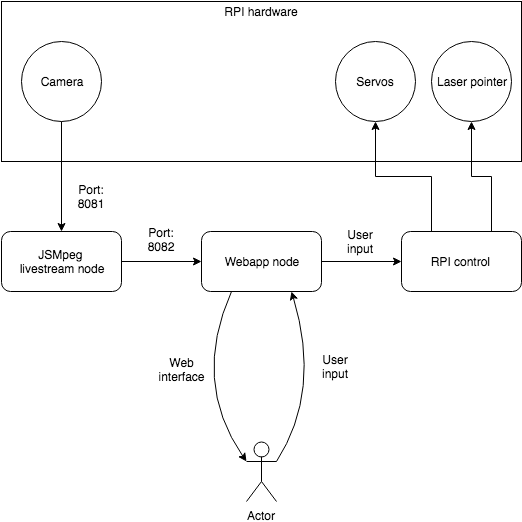
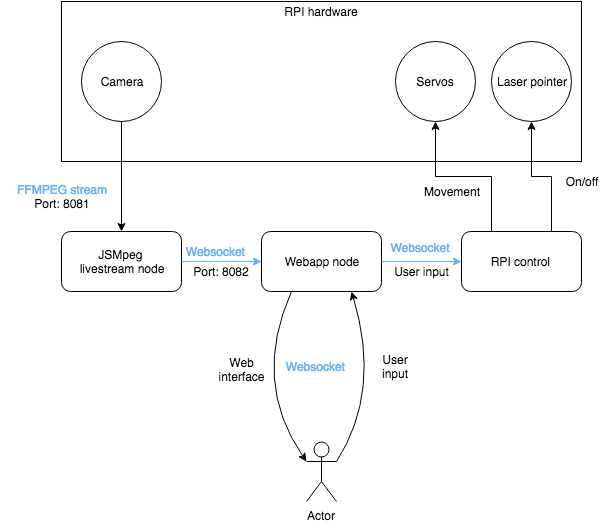
updated readme and added notes to files

diff --git a/webapp/static/logic.js b/webapp/static/logic.js
@@ -1,19 +1,14 @@
+// Author: Tjalling Haije
+// Date: 12-01-2019
+//
+// This JS file holds all the JS logic for the webapp. 
+// It calculates the servo commands based on clicks/tabs, sends this 
+// info back to the main server over the websocket, and resizes the window when the user 
+// rotates their screen.
+ 
+
+
 var socket = io();
-
-
-
-// go Fullscreen button
-// var goFS = document.getElementById("goFS");
-// goFS.addEventListener("click", function() {
-//     console.log("Button click")
-//     document.body.requestFullscreen();
-//     document.body.webkitRequestFullscreen(Element.ALLOW_KEYBOARD_INPUT);
-//     document.body.mozRequestFullScreen();
-//     document.body.msRequestFullscreen();
-//     document.body.requestFullscreen(); // standard
-// }, false);
-
-
 
 
 // resize after a slight delay, because of having to reset the width etc. of
@@ -140,31 +135,3 @@ document.addEventListener("click", function(event){
     socket.emit('click', {"hor": hor, "vert": vert, "ls": 0});
 });
 
-
-// socket.emit('new player');
-// setInterval(function() {
-//   socket.emit('movement', movement);
-// }, 1000 / 60);
-
-
-
-
-// socket.on('message', function(data) {
-//   console.log(data);
-// });
-
-
-// var canvas = document.getElementById('canvas');
-// canvas.width = 800;
-// canvas.height = 600;
-// var context = canvas.getContext('2d');
-// socket.on('state', function(players) {
-//   context.clearRect(0, 0, 800, 600);
-//   context.fillStyle = 'green';
-//   for (var id in players) {
-//     var player = players[id];
-//     context.beginPath();
-//     context.arc(player.x, player.y, 10, 0, 2 * Math.PI);
-//     context.fill();
-//   }
-// });

diff --git a/webapp/server.js b/webapp/server.js
@@ -1,8 +1,10 @@
-// Dependencies
-var express = require('express');
-var http = require('http');
-var path = require('path');
-var socketIO = require('socket.io');
+// Author: Tjalling Haije
+// Date: 12-01-2019
+//
+// This Node.js node starts a webserver and serves the index.html file. 
+// The user is directly connected through a websocket with the server, 
+// which awaits laser and servo commands.
+
 
 var app = express();
 var server = http.Server(app);
@@ -35,12 +37,3 @@ io.on('connection', function(socket) {
     });
 });
 
-
-// setInterval(function() {
-//     io.sockets.emit('state', players);
-// }, 1000 / 60);
-
-
-// setInterval(function() {
-//   io.sockets.emit('message', 'hi!');
-// }, 1000);

diff --git a/rpi-control/servos.py b/rpi-control/servos.py
@@ -1,10 +1,20 @@
+##########################################################
+# Author: Tjalling Haije
+# Date: 12-01-2019
+#
+# This file contains the code to setup and control the servos on the Raspberry PI, with 
+# the PIGPIO library
+##########################################################
+
 import pigpio
 import time
 
 pi = pigpio.pi()
 
-# Servo class with all information and methods for the wiringpi objects
+
 class Servo:
+    """ This class represents a servo, its current position, and functions to move it 
+          to another position. """
 
     def __init__(self, pin, minPos, maxPos, centerPosition):
         """ Initialize the motor with its pins, min, max and
@@ -24,16 +34,10 @@ class Servo:
         new_pos = clamp(position, self.minPos, self.maxPos)
         
         print("New position:", new_pos)
-        # calc change
-        # delta = abs(new_pos - self.position)
-        
+
         self.position = new_pos
         pi.set_servo_pulsewidth(self.pin, self.position)
         
-        # give the servo some time to move to the target pos
-        #wait_time = (self.secs_per_100 / 100) * delta
-        #time.sleep(wait_time)
-        #pi.set_servo_pulsewidth(self.pin, 0)
 
     def center(self):
         self.setPosition(self.centerPosition)

diff --git a/rpi-control/control.py b/rpi-control/control.py
@@ -1,9 +1,18 @@
+##########################################################
+# Author: Tjalling Haije
+# Date: 12-01-2019
+#
+# This file opens a websocket which waits for servo and laser commands
+#
+##########################################################
+
 import servos as servoControl
 from laser import Laser
 from time import sleep
 import socket
 
 
+# how much servo ticks to move per percentage received
 multiplier = 2.5
 
 if __name__ == "__main__":

diff --git a/rpi-control/sendCommand.py b/rpi-control/sendCommand.py
@@ -1,3 +1,12 @@
+##########################################################
+# Author: Tjalling Haije
+# Date: 12-01-2019
+#
+# This file receives the servo and laser commands from Node.js, and sends it to the Python 
+# websocket
+#
+##########################################################
+
 import socket
 import time
 import sys

diff --git a/rpi-control/laser.py b/rpi-control/laser.py
@@ -1,3 +1,11 @@
+##########################################################
+# Author: Tjalling Haije
+# Date: 12-01-2019
+#
+# Simple class which toggles the laser pointer on or off.
+#
+##########################################################
+
 import RPi.GPIO as GPIO
 import time
 

diff --git a/readme.md b/readme.md
@@ -3,9 +3,13 @@
 Livestream the video of a  raspberry pi to a webserver (nodejs), which users can
 connect to, and control a pan-tilt combo of servos to control the rpi camera and laser pointer.
 
+Also see [my blogpost on this project](http://passmethebutter.net/trolling-cats-with-a-camera-guided-laser-pointer-with-a-webapp/ ).
+
 The order is:   
 
 ![Diagram](https://github.com/thaije/TrollBot/blob/master/cat_laser_diagram.png)
+
+
 
 
 
@@ -21,8 +25,9 @@ Requires ffmpeg, vl4-utils, nodejs, npm, pigpio, RPi.GPIO
 - `npm install socket.io express`
 
 # How to run
-Show available devices: `v4l2-ctl --list-devices`   
 
+First connect all hardware as defined in the Hardware section.   
+Then startup the Raspberrypi and execute the following commands in the terminal:   
 
 - Terminal tab 1:  
     - `cd video-streaming`  
@@ -54,6 +59,16 @@ Show available devices: `v4l2-ctl --list-devices`
 
 
 # Hardware
+## Requirements:
+- Raspberry PI (tested with 3b+)
+- Camera. I used Raspberry PI camera v2, but also tested with PS Eye camera. 
+- Laser pointer. I used [this](https://www.adafruit.com/product/1054) one.
+- 2 servos. I used 2 HItec HS-422 servos.
+- 6v accu pack for the servos.
+- pan-tilt set for servos. I used [this](http://www.myduino.com/image/cache/1-250x250-500x500.jpg) pan-tilt set. 
+- The RPI camera and laser pointer were mounted on the bracket.
+
+## Wiring:
 #### Servo 1: (vertical servo)
 - Black: Ground pinout board
 - Red: 6v on pinout board
